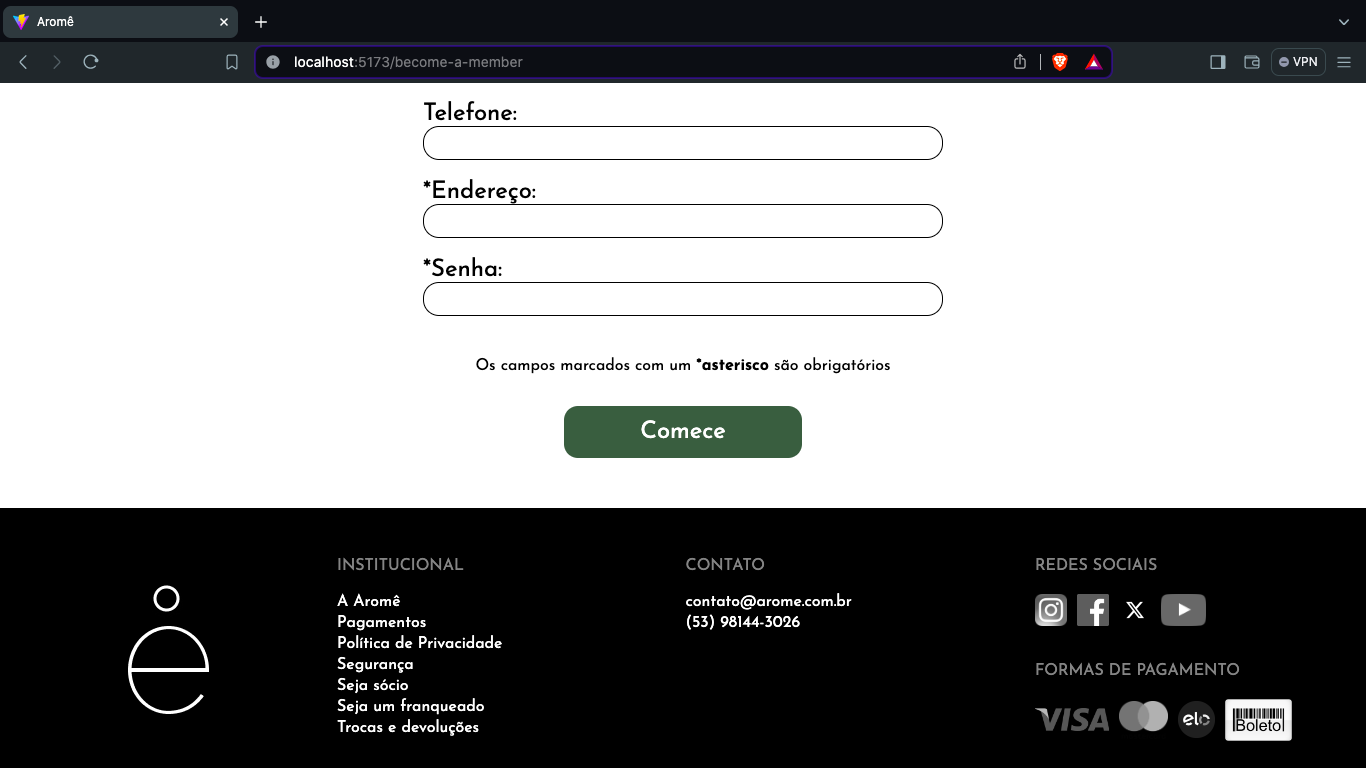
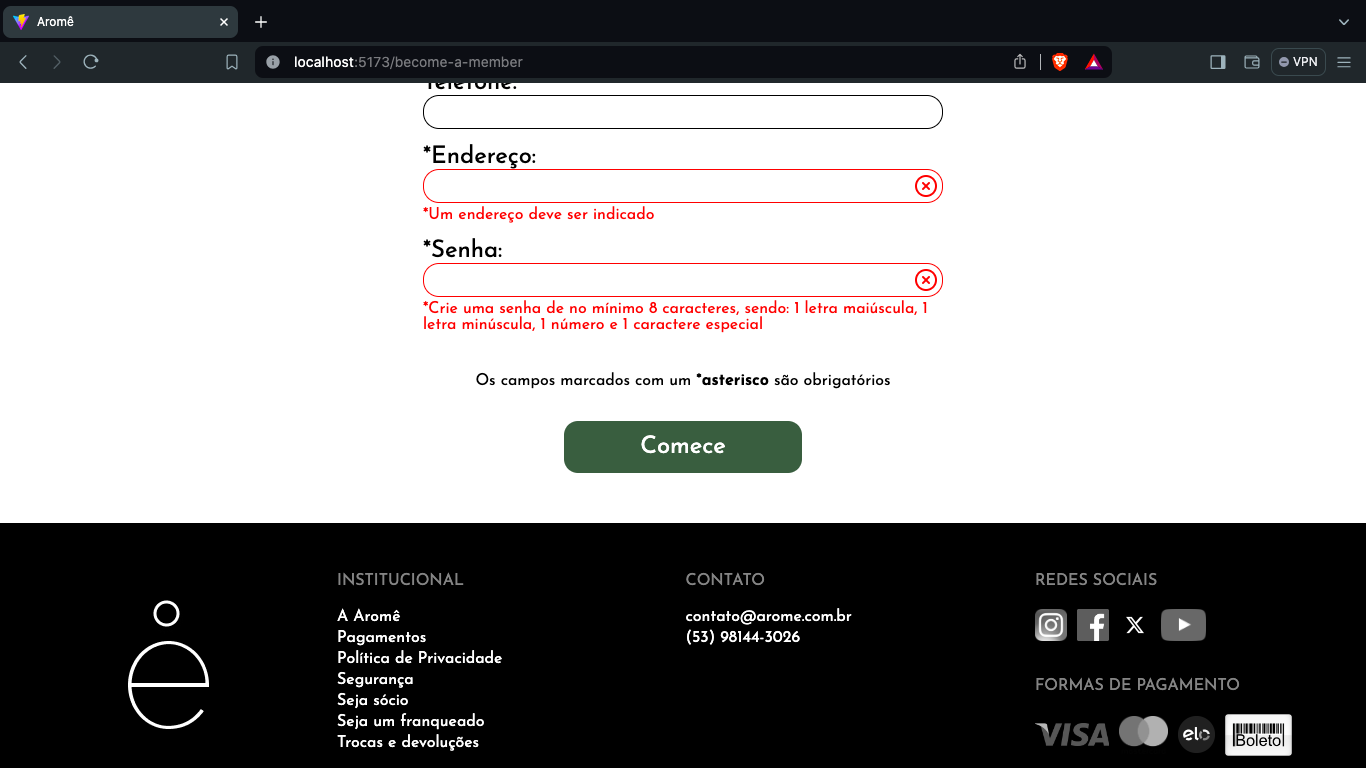
Macbook - 03/05/24 - 16h16 - Terminei o CustomDivForm e o ClubForm em si

diff --git a/src/components/ClubForm/ClubForm.tsx b/src/components/ClubForm/ClubForm.tsx
@@ -1,17 +1,18 @@
 import classes from './ClubForm.module.css'
 import { SectionContainer } from '../shared/SectionContainer/SectionContainer';
-import { useForm } from 'react-hook-form'
+import { FormState, UseFormRegister, useForm } from 'react-hook-form'
 import { z } from 'zod'
 import { zodResolver } from '@hookform/resolvers/zod';
 import CircleX from './vectors/circle-x.svg';
+import { HTMLInputTypeAttribute, useState } from 'react';
 
 const clubMemberSchema = z.object({
   name: z.string().min(3, "*O nome deve ter pelo menos 3 letras")
-    .regex(/^[A-Za-z]+$/i, "*Apenas letras são permitidas"),
+    .regex(/^[A-Za-z\s]+$/i, "*Apenas letras são permitidas"),
   email: z.string().email("*O e-mail deve ser válido"),
   phone: z.string(),
   address: z.string().min(3, "*Um endereço deve ser indicado"),
-  password: z.string().min(1, "*Crie uma senha de no mínimo 8 caracteres, \nsendo: 1 letra maiúscula, 1 letra minúscula, 1 número e 1 caractere especial")
+  password: z.string().min(8, "*Crie uma senha de no mínimo 8 caracteres, \nsendo: 1 letra maiúscula, 1 letra minúscula, 1 número e 1 caractere especial")
     .regex(/^(?=.*\d)(?=.*[a-z])(?=.*[A-Z])(?=.*[$*&@#])[0-9a-zA-Z$*&@#]{8,}$/, "*A senha deve conter no mínimo 8 caracteres, \nsendo: 1 letra maiúscula, 1 letra minúscula, 1 número e 1 caractere especial")
 })
 
@@ -19,9 +20,29 @@ type ClubMembersSchema = z.infer<typeof clubMemberSchema>
 
 interface ICustomDivForm {
   children: string
-  type: keyof FieldErrors<{ name: string; email: string; phone: string; address: string; password: string; }>;
+  type: keyof ClubMembersSchema
+  formState: FormState<ClubMembersSchema>
+  register: UseFormRegister<ClubMembersSchema>
+  HTMLtype?: HTMLInputTypeAttribute
 }
 
+const CustomDivForm = (params: ICustomDivForm) => {
+      const error = params.formState.errors[params.type]
+
+      return (
+        <div className={classes.formDiv}>
+          <label className={classes.formLabel} htmlFor={params.type}>{params.children}</label>
+          <input type={params.HTMLtype} className={classes.formInput + ' ' + (error ? classes.formInputErrors : "")} {...params.register(params.type)} />
+
+          {error && (
+            <div>
+              <p className={classes.errorsMessage}>{error.message}</p>
+            </div>  
+          )}
+
+        </div>
+      )
+    }
 
 
 export const ClubForm = () => {
@@ -35,19 +56,6 @@ export const ClubForm = () => {
       console.log(data)
     }
 
-    const CustomDivForm = (params: ICustomDivForm) => {
-      return (
-        <div className={classes.formDiv}>
-          <label className={classes.formLabel} htmlFor={params.type}>{params.children}</label>
-          <input className={classes.formInput + ' ' + (formState.errors[params.type] ? classes.formInputErrors : "")} {...register(params.type)} />
-
-          {formState.errors[params.type] && (
-            <p className={classes.errorsMessage}>{formState.errors[params.type].message}</p>
-          )}
-        </div>
-      )
-    }
-
   return(
     <div className={classes.clubFormContainer}>
       <SectionContainer className={classes.sectionContainer}>
@@ -58,11 +66,11 @@ export const ClubForm = () => {
         </div>
         <div>
           <form className={classes.form} onSubmit={handleSubmit(handleClubMember)}>
-            <CustomDivForm type='name'>*Nome: </CustomDivForm>
-            <CustomDivForm type='email'>*E-mail: </CustomDivForm>
-            <CustomDivForm type='phone'>Telefone: </CustomDivForm>
-            <CustomDivForm type='address'>*Endereço: </CustomDivForm>
-            <CustomDivForm type='password'>*Senha: </CustomDivForm>
+            <CustomDivForm register={register} formState={formState} type='name'>*Nome: </CustomDivForm>
+            <CustomDivForm register={register} formState={formState} type='email'>*E-mail: </CustomDivForm>
+            <CustomDivForm register={register} formState={formState} type='phone'>Telefone: </CustomDivForm>
+            <CustomDivForm register={register} formState={formState} type='address'>*Endereço: </CustomDivForm>
+            <CustomDivForm register={register} formState={formState} type='password' HTMLtype='password'>*Senha: </CustomDivForm>
             <br />
             <br />
             <p>Os campos marcados com um <strong>*asterisco</strong> são obrigatórios</p>

diff --git a/src/components/ClubForm/ClubForm.module.css b/src/components/ClubForm/ClubForm.module.css
@@ -50,6 +50,7 @@
     padding-left: 10px;
     width: 520px;
     height: 34px;
+    background: url('./vectors/circle-x.svg') no-repeat 490px center;
 }
 
 .formInputErrors:focus {
@@ -60,6 +61,7 @@
 .errorsMessage {
     color: red;
     margin-top: 4px;
+    width: 520px
 }
 
 .submitButton {
